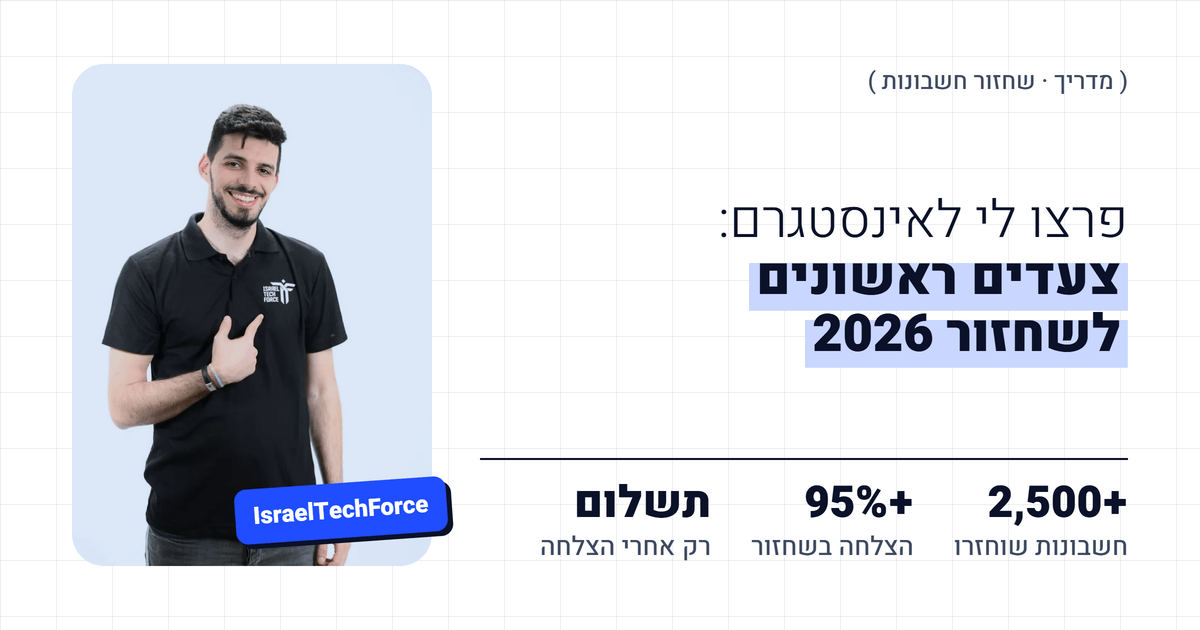
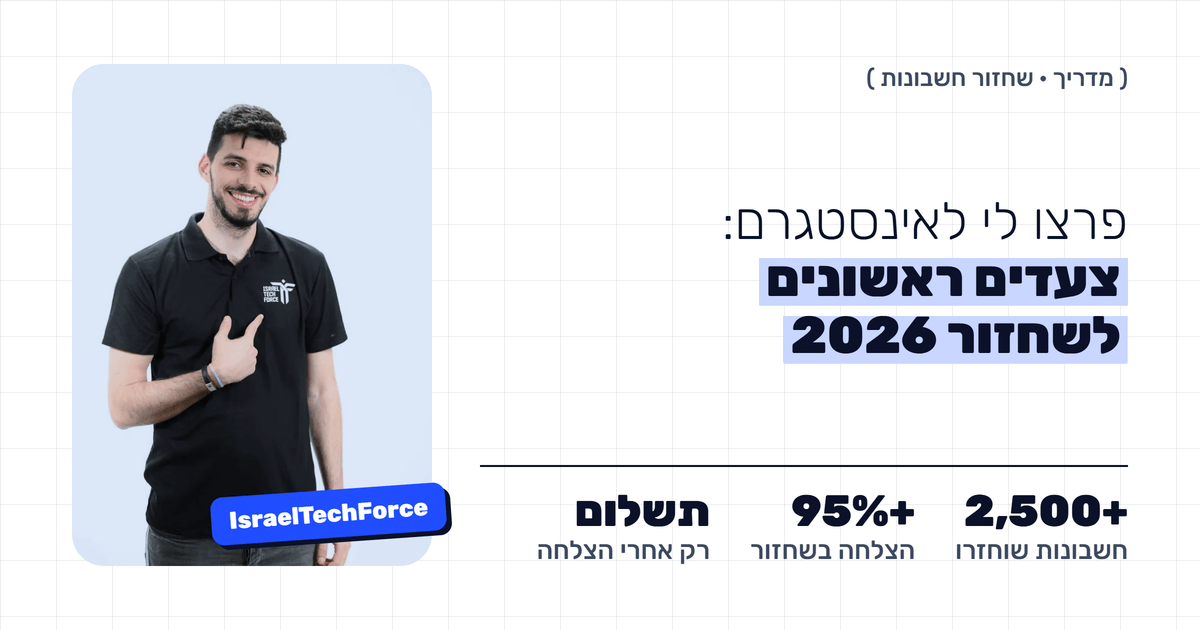
Type: Rubik replaces Heebo site-wide; share cards regenerated

diff --git a/src/styles/system.css b/src/styles/system.css
@@ -2,30 +2,30 @@
    ITF "Signal" design system — the single source of truth for every page.
    "Midnight" palette (2026-10): blue only, dark to light, on white.
    Ink + white + one cobalt accent. WhatsApp green is reserved for the one
-   action we want (send the case). Editorial type: Heebo 300 next to 900.
+   action we want (send the case). Editorial type: Rubik 300 next to 900.
    Motion is scroll-driven only (see src/motion/useMotion.js); hover changes
    colour, never position.
    ========================================================================== */
 
 /* ---------- Fonts: self-hosted variable files, Hebrew + Latin only ---------- */
 @font-face {
-  font-family: 'Heebo';
+  font-family: 'Rubik';
   font-style: normal;
   font-display: swap;
-  font-weight: 100 900;
-  src: url('@fontsource-variable/heebo/files/heebo-hebrew-wght-normal.woff2') format('woff2-variations');
+  font-weight: 300 900;
+  src: url('@fontsource-variable/rubik/files/rubik-hebrew-wght-normal.woff2') format('woff2-variations');
   unicode-range: U+0307-0308, U+0590-05FF, U+200C-2010, U+20AA, U+25CC, U+FB1D-FB4F;
 }
 @font-face {
-  font-family: 'Heebo';
+  font-family: 'Rubik';
   font-style: normal;
   font-display: swap;
-  font-weight: 100 900;
-  src: url('@fontsource-variable/heebo/files/heebo-latin-wght-normal.woff2') format('woff2-variations');
+  font-weight: 300 900;
+  src: url('@fontsource-variable/rubik/files/rubik-latin-wght-normal.woff2') format('woff2-variations');
   unicode-range: U+0000-00FF, U+0131, U+0152-0153, U+02BB-02BC, U+02C6, U+02DA, U+02DC, U+0304, U+0308, U+0329, U+2000-206F, U+20AC, U+2122, U+2191, U+2193, U+2212, U+2215, U+FEFF, U+FFFD;
 }
 /* Serif for the one emotional quote per page. Downloaded only where used.
-   Hebrew glyphs only: punctuation and digits fall through to Heebo, which
+   Hebrew glyphs only: punctuation and digits fall through to Rubik, which
    saves the 44KB Latin file for a handful of commas. */
 @font-face {
   font-family: 'Frank Ruhl Libre';
@@ -68,8 +68,8 @@
   --shadow-rgb: 10, 17, 40;
 
   /* Type: fluid between 375 and 1440 */
-  --font: 'Heebo', -apple-system, 'Segoe UI', Arial, sans-serif;
-  --font-serif: 'Frank Ruhl Libre', 'Heebo', Georgia, serif;
+  --font: 'Rubik', -apple-system, 'Segoe UI', Arial, sans-serif;
+  --font-serif: 'Frank Ruhl Libre', 'Rubik', Georgia, serif;
   --fs-display: clamp(2.75rem, 1.606rem + 4.883vw, 6rem);    /* 44 → 96 */
   --fs-h1: clamp(2.25rem, 1.37rem + 3.756vw, 4.75rem);       /* 36 → 76 */
   --fs-h2: clamp(1.75rem, 1.31rem + 1.878vw, 3rem);          /* 28 → 48 */

diff --git a/scripts/og-card.html b/scripts/og-card.html
@@ -7,20 +7,20 @@
 <meta charset="utf-8">
 <style>
   @font-face {
-    font-family: 'Heebo';
-    font-weight: 100 900;
-    src: url('../node_modules/@fontsource-variable/heebo/files/heebo-hebrew-wght-normal.woff2') format('woff2-variations');
+    font-family: 'Rubik';
+    font-weight: 300 900;
+    src: url('../node_modules/@fontsource-variable/rubik/files/rubik-hebrew-wght-normal.woff2') format('woff2-variations');
     unicode-range: U+0590-05FF, U+200C-2010, U+20AA, U+FB1D-FB4F;
   }
   @font-face {
-    font-family: 'Heebo';
-    font-weight: 100 900;
-    src: url('../node_modules/@fontsource-variable/heebo/files/heebo-latin-wght-normal.woff2') format('woff2-variations');
+    font-family: 'Rubik';
+    font-weight: 300 900;
+    src: url('../node_modules/@fontsource-variable/rubik/files/rubik-latin-wght-normal.woff2') format('woff2-variations');
   }
   * { box-sizing: border-box; margin: 0; }
   body {
     width: 1200px; height: 630px; overflow: hidden;
-    font-family: 'Heebo', sans-serif; color: #0a1128; background: #ffffff;
+    font-family: 'Rubik', sans-serif; color: #0a1128; background: #ffffff;
     background-image:
       linear-gradient(rgba(11,21,36,.07) 1px, transparent 1px),
       linear-gradient(90deg, rgba(11,21,36,.07) 1px, transparent 1px);

diff --git a/app/root.jsx b/app/root.jsx
@@ -6,15 +6,15 @@ import { useMotion } from '../src/motion/useMotion.js';
 import NotFound from '../src/pages/NotFound';
 // Self-hosted variable font, preloaded below: text paints in the brand face
 // on first render with no third-party round-trip.
-import heeboHebrew from '@fontsource-variable/heebo/files/heebo-hebrew-wght-normal.woff2?url';
+import rubikHebrew from '@fontsource-variable/rubik/files/rubik-hebrew-wght-normal.woff2?url';
 // Punctuation and digits live in the Latin file: without it the headline is
 // repainted when it arrives, and that repaint is what LCP records.
-import heeboLatin from '@fontsource-variable/heebo/files/heebo-latin-wght-normal.woff2?url';
+import rubikLatin from '@fontsource-variable/rubik/files/rubik-latin-wght-normal.woff2?url';
 import '../src/styles/system.css';
 
 export const links = () => [
-  { rel: 'preload', href: heeboHebrew, as: 'font', type: 'font/woff2', crossOrigin: 'anonymous' },
-  { rel: 'preload', href: heeboLatin, as: 'font', type: 'font/woff2', crossOrigin: 'anonymous' },
+  { rel: 'preload', href: rubikHebrew, as: 'font', type: 'font/woff2', crossOrigin: 'anonymous' },
+  { rel: 'preload', href: rubikLatin, as: 'font', type: 'font/woff2', crossOrigin: 'anonymous' },
 ];
 
 export function Layout({ children }) {

diff --git a/CLAUDE.md b/CLAUDE.md
@@ -33,7 +33,7 @@ to the Hebrew pages (`vercel.json`).
   Reference implementation: the home page.
 - White + ink + one cobalt accent ("Midnight" palette); WhatsApp green only for the WhatsApp action.
   Every page opens dark: ink header + ink hero (Osher, 2026-10-02: the all-light version was too light).
-  Heebo variable (300 beside 900 in headings); Frank Ruhl Libre for one quote per page.
+  Rubik variable (300 beside 900 in headings; replaced Heebo 2026-10-12, Osher wanted a livelier face); Frank Ruhl Libre for one quote per page.
 - Motion is scroll-driven. Hover changes colour only. No hover transforms, no
   custom cursor, no animated backgrounds, no `backdrop-filter`, no smooth-scroll library.
 - No "three equal cards with an icon". Lists are numbered rows; layouts are asymmetric.

diff --git a/DESIGN.md b/DESIGN.md
@@ -75,7 +75,7 @@ Rules:
 
 ## 3. Type
 
-One family, Heebo variable (self-hosted, preloaded). Frank Ruhl Libre appears
+One family, Rubik variable (self-hosted, preloaded). Frank Ruhl Libre appears
 once per page at most, for an emotional quote (`.serif`).
 
 | Class | Size (375 → 1440) | Weight | Line height |
